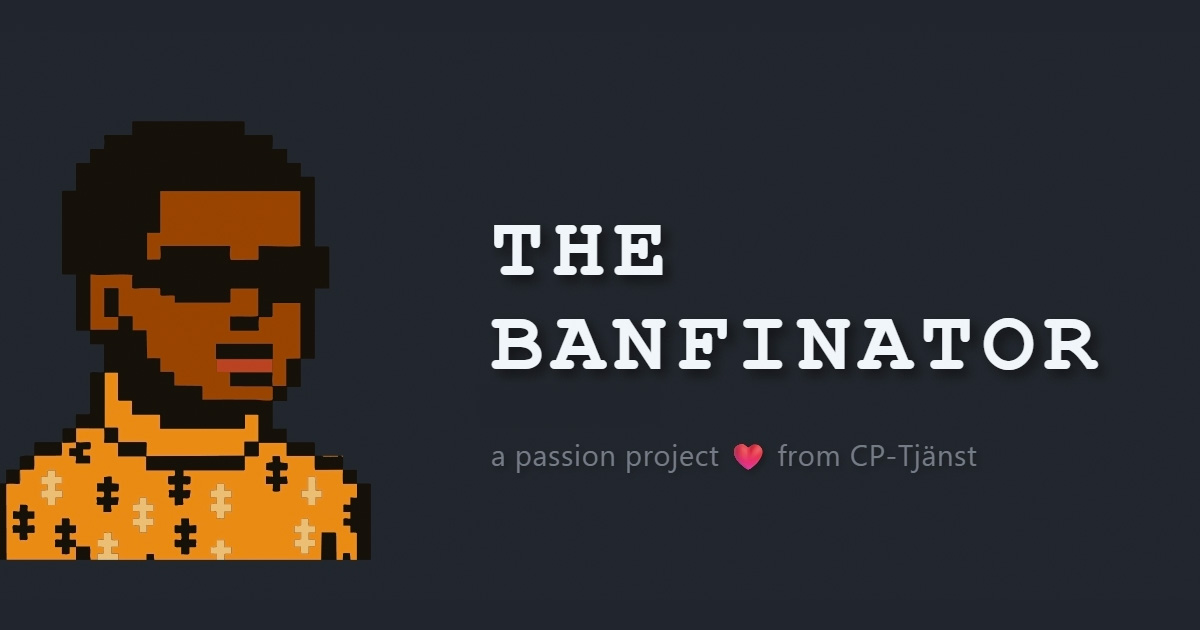
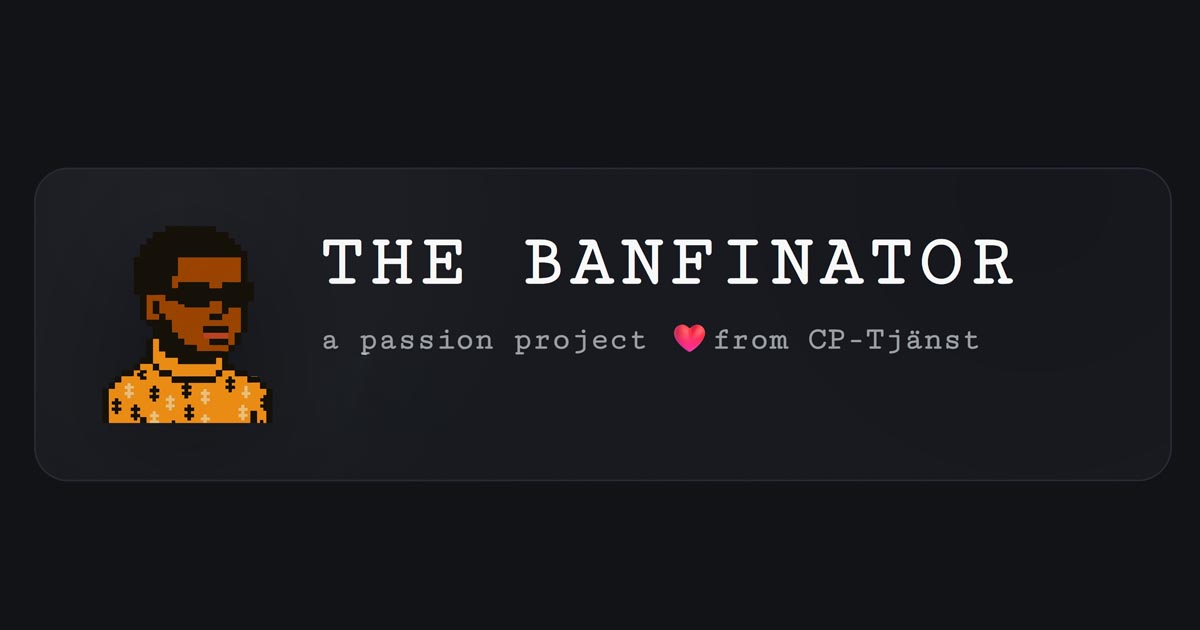
Add SoMe image and opengraph data

Changed region(s): [[0.0, 0.2413, 0.9558, 0.9048], [0.9558, 0.3016, 0.9867, 0.7238], [0.7092, 0.2413, 0.925, 0.2714]]

diff --git a/index.htm b/index.htm
@@ -2,9 +2,22 @@
 <html lang="sv">
 <head>
     <meta charset="UTF-8">
+    <!-- Open Graph -->
+<meta property="og:title" content="The Banfinator – collage på ett kick">
+<meta property="og:description" content="a passion project ❤ from CP-Tjänst – snabba collage i 16:9 med rätt byline.">
+<meta property="og:image" content="https://thebanfinator.cptjanst.se/thebanfinator-some.jpg">
+<meta property="og:image:alt" content="The Banfinator – collageverktyg">
+<meta property="og:url" content="https://thebanfinator.cptjanst.se/">
+<meta property="og:type" content="website">
+
+<!-- Twitter / X Card -->
+<meta name="twitter:card" content="summary_large_image">
+<meta name="twitter:title" content="The Banfinator – collage på ett kick">
+<meta name="twitter:description" content="a passion project ❤ from CP-Tjänst – snabba collage i 16:9 med rätt byline.">
+<meta name="twitter:image" content="https://thebanfinator.cptjanst.se/thebanfinator-some.jpg">
     <meta name="viewport" content="width=device-width, initial-scale=1.0">
-    <title>The Banfinator - Professionell Bildkombinerare</title>
-    <meta name="description" content="The Banfinator - en webbaserad bildkombinerare som levererar 3840x2160-kompositioner med exakt vit avdelare och redigerbar byline.">
+    <title>The Banfinator – collage på ett kick</title>
+    <meta name="description" content="The Banfinator – snabba collage i 16:9 med rätt byline.">
     <meta name="robots" content="no-cache, no-store, must-revalidate">
     <meta http-equiv="Cache-Control" content="no-cache, no-store, must-revalidate">
     <meta http-equiv="Pragma" content="no-cache">
